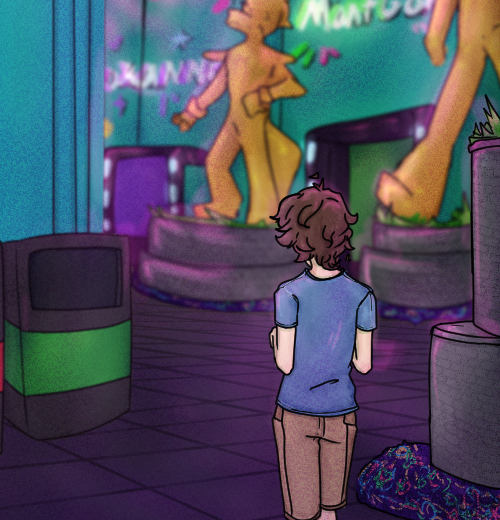
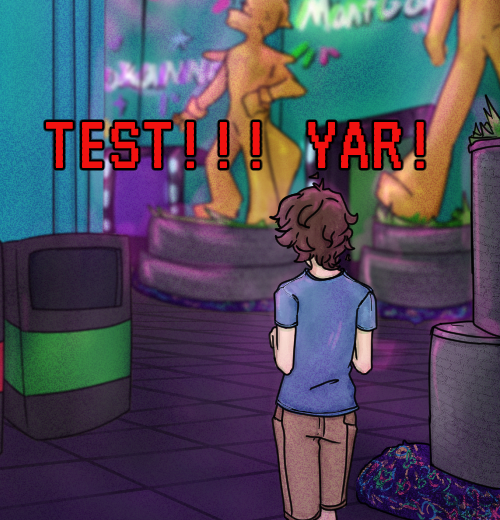
Yippee
I think I have autism

Changed region(s): [[0.09, 0.2154, 0.54, 0.3385], [0.6, 0.2154, 0.87, 0.3385]]

diff --git a/index.html b/index.html
@@ -25,6 +25,8 @@
         <ul class='sub-menus'>
           <li><a href='https://mateorat.github.io/goodiespage'>Goodies :)</a></li>
           <li><a href='http://'></a></li>
+          <li><a href="http://">Announcements</a></li>
+          <li><a href="https://discord.gg/yxGdKyMsc4">Discord Server</a></li>
         </ul>
       </li>
     </ul>
@@ -51,13 +53,13 @@
 <div class=updateImage><img src="images/LatestUpdateThumb.png"alt="latest update image"width="265"></div><br>
 <div class=updateInfo>4/20/69 Update</div>
 <div class="mainText"><u>Volume 1, Pages 69-420</u><br>
-Update summary</div>
+Hey you sillies! This isn't a REAL update, just a test for formatting reasons! </div>
 </div>
 
 <br>
 
 <div id="anothervidtest">
-  <div class="socials">TikTok - Twitter - Discord Server</div>
+  <div class="socials"><a href="https://www.tiktok.com/@slashjayfnaf">TikTok</a> - <a href="https://twitter.com/SlashjayFNaF">Twitter</a> - <a href="https://discord.gg/yxGdKyMsc4">Discord</a></div>
   <div id="videotest">
   <video width="100%" controls>
     <source src="images/SlashjayIntroVideo.mp4" type="video/mp4">

diff --git a/MainSiteCSS.css b/MainSiteCSS.css
@@ -171,6 +171,7 @@
 		padding-bottom:20px;
 		padding-right: 15px;
 		padding-left:30px;
+		max-width:20%;
 		}
 
 .updateImage {
